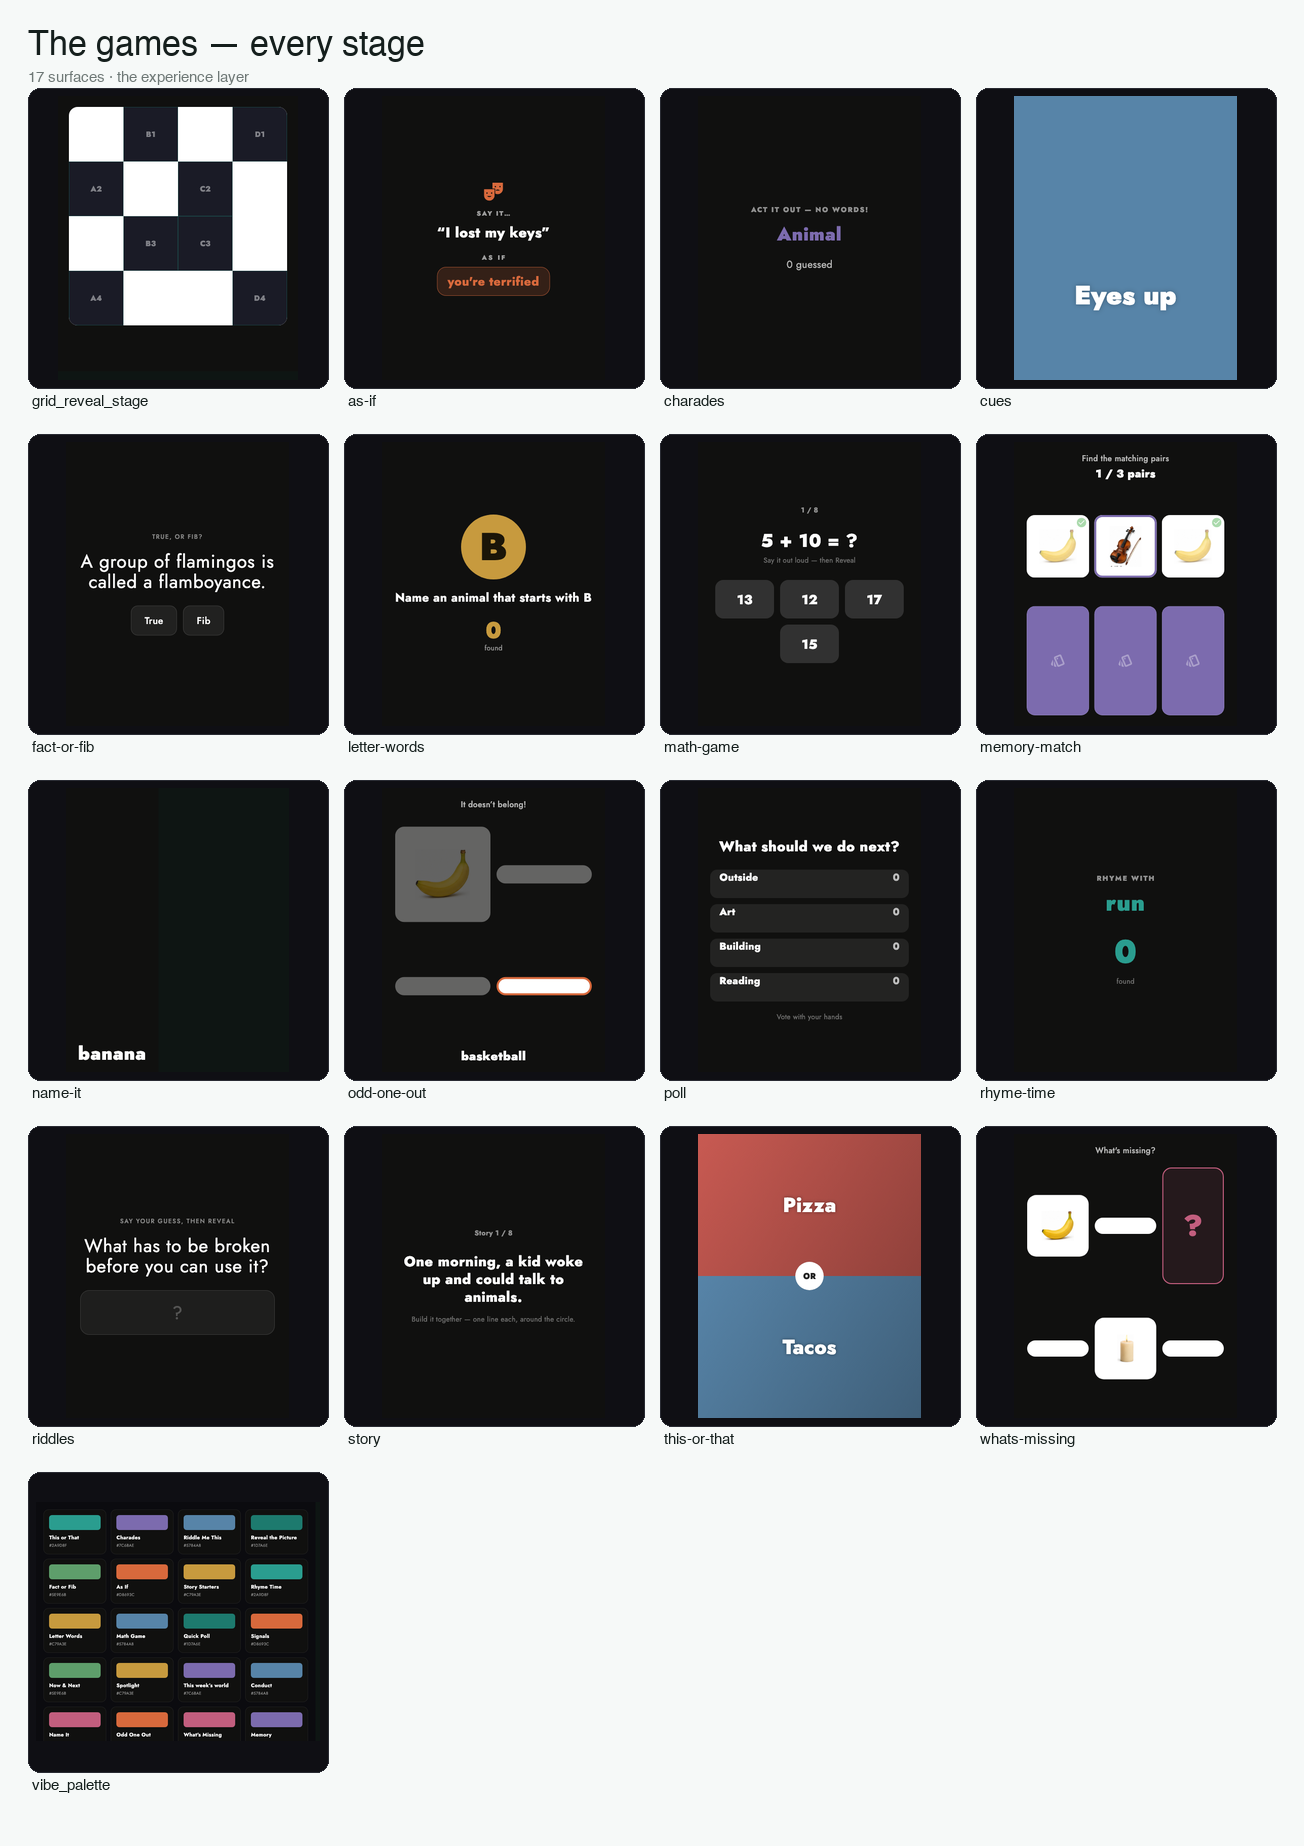
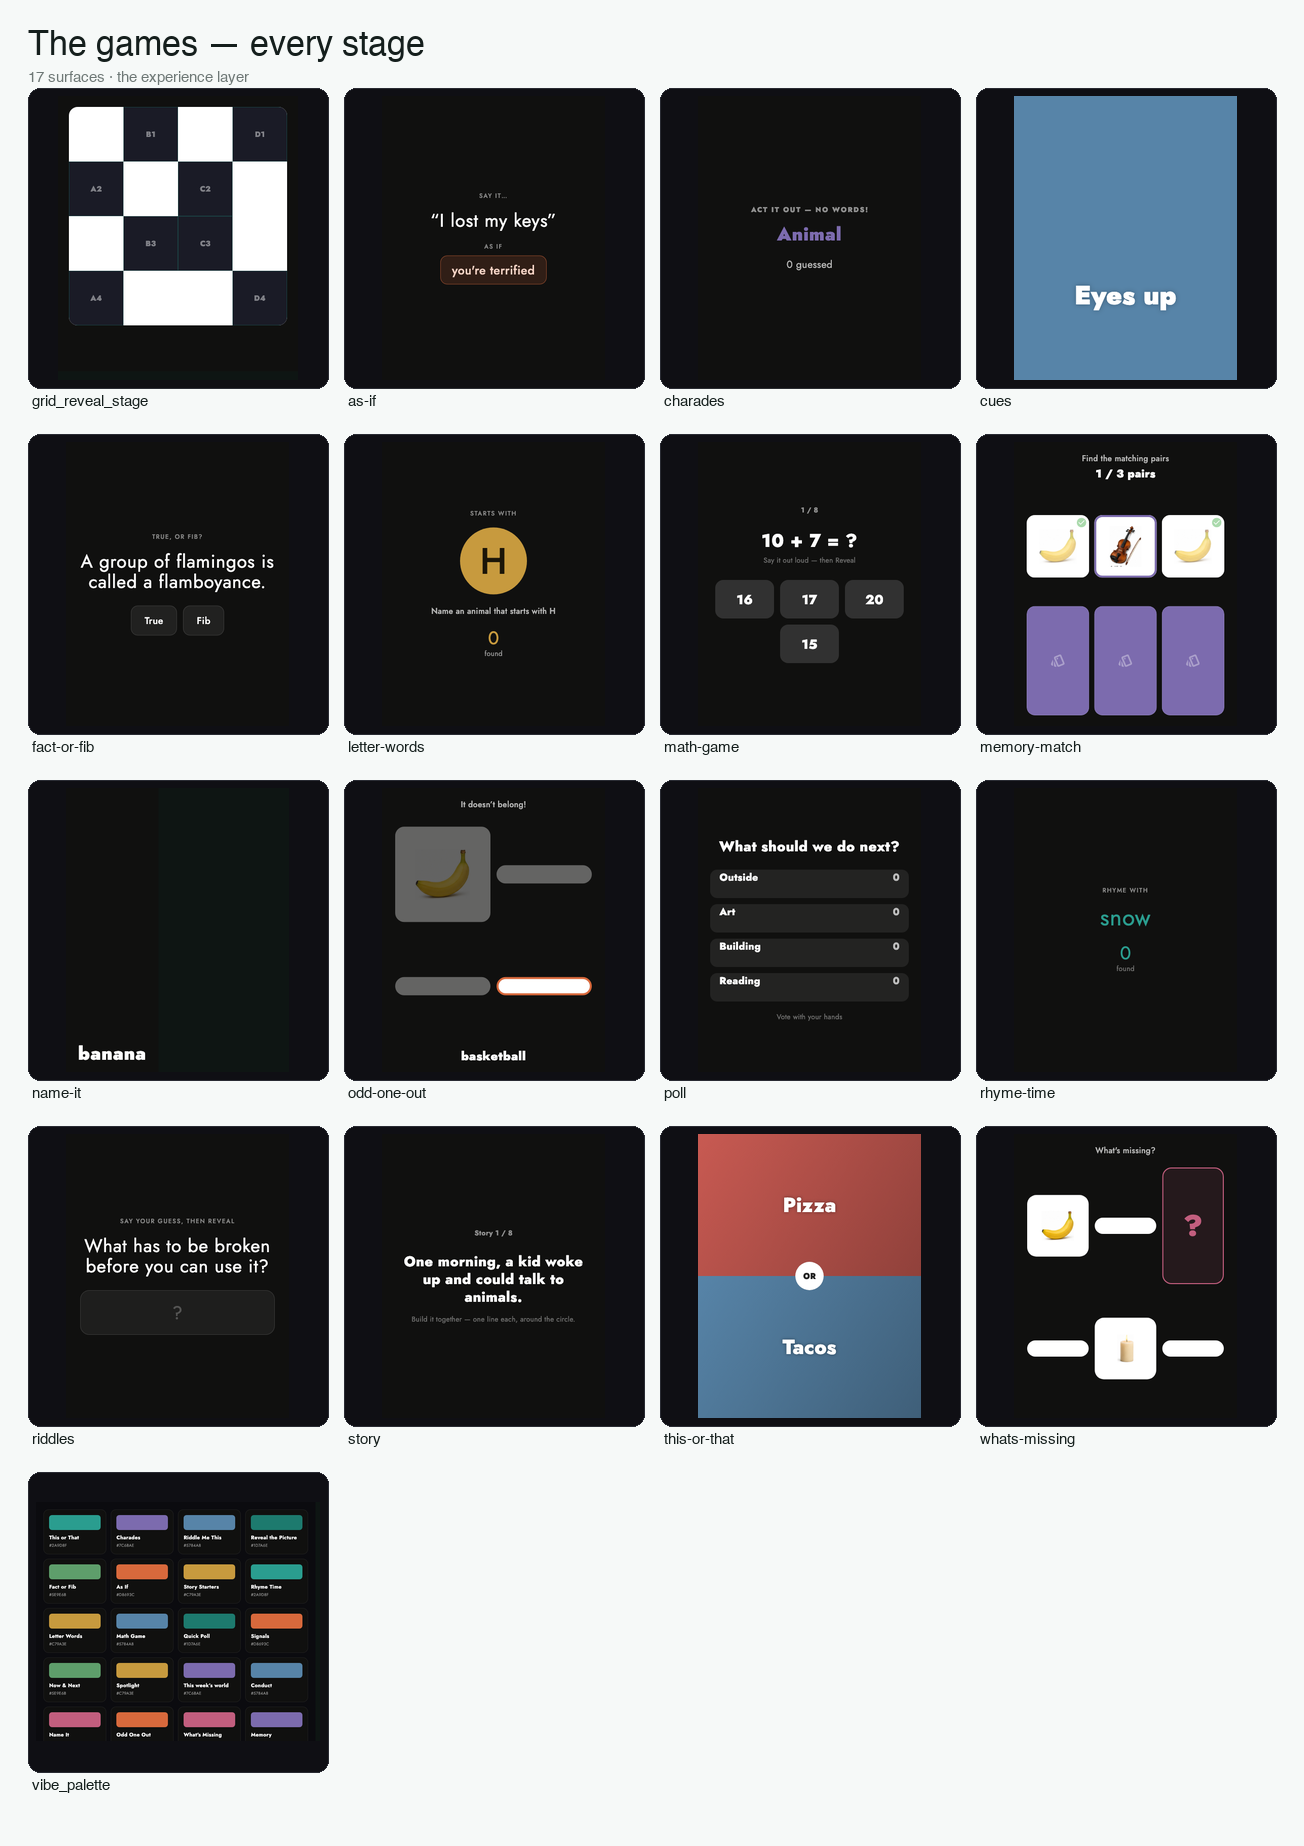
feat(games): Wave 2 rollout — as-if, rhyme, letter-words onto the frame
The prompt-game batch (after fact-or-fib + riddles). All three onto
GameStage.frame: tracked eyebrow, serif hero, weights → w400/w500, accent text
via AppColors.readableOnDark/onAccent instead of raw white/black. The five
prompt games now share one calm voice — visibly cohesive on the games sheet.

Remaining: charades, cues, math, poll, this-or-that (custom layouts + shared
option pills) + the card-game titles.

Verify: flutter analyze clean; RUN_GOLDENS renders 17 scenes green; eyeballed
the contact sheet — the five converged stages are cohesive.

diff --git a/lib/features/games/games/as_if_game.dart b/lib/features/games/games/as_if_game.dart
@@ -1,5 +1,7 @@
+import 'package:differentworld/app/design_tokens.dart';
 import 'package:differentworld/features/activity_runtime/content_bank.dart';
 import 'package:differentworld/features/games/game.dart';
+import 'package:differentworld/features/games/game_stage.dart';
 import 'package:differentworld/features/games/games/tally_controls.dart';
 import 'package:flutter/material.dart';
 
@@ -106,73 +108,40 @@ class AsIfGame extends GameDefinition<AsIfState> {
   @override
   Widget buildStage(BuildContext context, AsIfState s) {
     final theme = Theme.of(context);
-    return Center(
-      child: ConstrainedBox(
-        constraints: const BoxConstraints(maxWidth: 600),
-        child: Padding(
-          padding: const EdgeInsets.all(24),
-          child: Column(
-            mainAxisSize: MainAxisSize.min,
-            children: [
-              Icon(Icons.theater_comedy, color: vibe.accent, size: 44),
-              const SizedBox(height: 12),
-              const Text(
-                'SAY IT…',
-                style: TextStyle(
-                  color: Colors.white60,
-                  fontWeight: FontWeight.w800,
-                  letterSpacing: 2,
-                  fontSize: 13,
-                ),
+    return GameStage.frame(
+      context,
+      eyebrow: 'Say it…',
+      hero: GameStage.hero(context, '“${s.line}”'),
+      body: Column(
+        mainAxisSize: MainAxisSize.min,
+        children: [
+          const SizedBox(height: 24),
+          GameStage.eyebrow(context, 'As if'),
+          const SizedBox(height: 10),
+          Container(
+            padding: const EdgeInsets.symmetric(horizontal: 22, vertical: 12),
+            decoration: BoxDecoration(
+              color: vibe.accent.withValues(alpha: 0.16),
+              borderRadius: BorderRadius.circular(14),
+              border: Border.all(color: vibe.accent.withValues(alpha: 0.55)),
+            ),
+            child: Text(
+              s.asIf,
+              textAlign: TextAlign.center,
+              style: theme.textTheme.headlineSmall?.copyWith(
+                color: AppColors.readableOnDark(vibe.accent),
+                fontWeight: FontWeight.w500,
               ),
-              const SizedBox(height: 12),
-              Text(
-                '“${s.line}”',
-                textAlign: TextAlign.center,
-                style: theme.textTheme.headlineMedium?.copyWith(
-                  color: Colors.white,
-                  fontWeight: FontWeight.w800,
-                  height: 1.1,
-                ),
-              ),
-              const SizedBox(height: 24),
-              const Text(
-                'AS IF',
-                style: TextStyle(
-                  color: Colors.white60,
-                  fontWeight: FontWeight.w800,
-                  letterSpacing: 3,
-                  fontSize: 13,
-                ),
-              ),
-              const SizedBox(height: 8),
-              Container(
-                padding:
-                    const EdgeInsets.symmetric(horizontal: 20, vertical: 12),
-                decoration: BoxDecoration(
-                  color: vibe.accent.withValues(alpha: 0.18),
-                  borderRadius: BorderRadius.circular(18),
-                  border: Border.all(color: vibe.accent.withValues(alpha: 0.6)),
-                ),
-                child: Text(
-                  s.asIf,
-                  textAlign: TextAlign.center,
-                  style: theme.textTheme.headlineSmall?.copyWith(
-                    color: vibe.accent,
-                    fontWeight: FontWeight.w800,
-                  ),
-                ),
-              ),
-              if (s.performed > 0) ...[
-                const SizedBox(height: 24),
-                Text(
-                  'Acted out ${s.performed}',
-                  style: const TextStyle(color: Colors.white38),
-                ),
-              ],
-            ],
+            ),
           ),
-        ),
+          if (s.performed > 0) ...[
+            const SizedBox(height: 24),
+            Text(
+              'Acted out ${s.performed}',
+              style: const TextStyle(color: Colors.white38),
+            ),
+          ],
+        ],
       ),
     );
   }

diff --git a/lib/features/games/games/letter_words_game.dart b/lib/features/games/games/letter_words_game.dart
@@ -1,7 +1,9 @@
 import 'dart:math';
 
+import 'package:differentworld/app/design_tokens.dart';
 import 'package:differentworld/features/activity_runtime/content_bank.dart';
 import 'package:differentworld/features/games/game.dart';
+import 'package:differentworld/features/games/game_stage.dart';
 import 'package:differentworld/features/games/games/tally_controls.dart';
 import 'package:flutter/material.dart';
 
@@ -121,46 +123,42 @@ class LetterWordsGame extends GameDefinition<LetterWordsState> {
   @override
   Widget buildStage(BuildContext context, LetterWordsState s) {
     final theme = Theme.of(context);
-    return Center(
-      child: Padding(
-        padding: const EdgeInsets.all(24),
-        child: Column(
-          mainAxisSize: MainAxisSize.min,
-          children: [
-            Container(
-              width: 128,
-              height: 128,
-              decoration: BoxDecoration(color: vibe.accent, shape: BoxShape.circle),
-              alignment: Alignment.center,
-              child: Text(
-                s.letter,
-                style: const TextStyle(
-                  color: Colors.black87,
-                  fontSize: 76,
-                  fontWeight: FontWeight.w900,
-                ),
-              ),
-            ),
-            const SizedBox(height: 20),
-            Text(
-              'Name ${s.category} that starts with ${s.letter}',
-              textAlign: TextAlign.center,
-              style: theme.textTheme.headlineSmall?.copyWith(
-                color: Colors.white,
-                fontWeight: FontWeight.w700,
-              ),
-            ),
-            const SizedBox(height: 24),
-            Text(
-              '${s.found}',
-              style: theme.textTheme.displayMedium?.copyWith(
-                color: vibe.accent,
-                fontWeight: FontWeight.w900,
-              ),
-            ),
-            const Text('found', style: TextStyle(color: Colors.white54)),
-          ],
+    return GameStage.frame(
+      context,
+      eyebrow: 'Starts with',
+      hero: Container(
+        width: 132,
+        height: 132,
+        decoration: BoxDecoration(color: vibe.accent, shape: BoxShape.circle),
+        alignment: Alignment.center,
+        child: Text(
+          s.letter,
+          style: TextStyle(
+            color: AppColors.onAccent(vibe.accent),
+            fontSize: 72,
+            fontWeight: FontWeight.w500,
+          ),
         ),
+      ),
+      body: Column(
+        mainAxisSize: MainAxisSize.min,
+        children: [
+          const SizedBox(height: 20),
+          Text(
+            'Name ${s.category} that starts with ${s.letter}',
+            textAlign: TextAlign.center,
+            style: theme.textTheme.titleMedium?.copyWith(color: Colors.white70),
+          ),
+          const SizedBox(height: 20),
+          Text(
+            '${s.found}',
+            style: theme.textTheme.displaySmall?.copyWith(
+              color: vibe.accent,
+              fontWeight: FontWeight.w400,
+            ),
+          ),
+          const Text('found', style: TextStyle(color: Colors.white54)),
+        ],
       ),
     );
   }

diff --git a/lib/features/games/games/rhyme_time_game.dart b/lib/features/games/games/rhyme_time_game.dart
@@ -1,5 +1,6 @@
 import 'package:differentworld/features/activity_runtime/content_bank.dart';
 import 'package:differentworld/features/games/game.dart';
+import 'package:differentworld/features/games/game_stage.dart';
 import 'package:differentworld/features/games/games/tally_controls.dart';
 import 'package:flutter/material.dart';
 
@@ -86,38 +87,32 @@ class RhymeTimeGame extends GameDefinition<RhymeState> {
   @override
   Widget buildStage(BuildContext context, RhymeState s) {
     final theme = Theme.of(context);
-    return Center(
-      child: Column(
-        mainAxisSize: MainAxisSize.min,
-        children: [
-          const Text(
-            'RHYME WITH',
-            style: TextStyle(
-              color: Colors.white54,
-              fontWeight: FontWeight.w800,
-              letterSpacing: 2,
+    return GameStage.frame(
+      context,
+      eyebrow: 'Rhyme with',
+      hero: Text(
+        s.word,
+        textAlign: TextAlign.center,
+        style: theme.textTheme.displayMedium?.copyWith(
+          color: vibe.accent,
+          fontWeight: FontWeight.w400,
+        ),
+      ),
+      body: Padding(
+        padding: const EdgeInsets.only(top: 24),
+        child: Column(
+          mainAxisSize: MainAxisSize.min,
+          children: [
+            Text(
+              '${s.found}',
+              style: theme.textTheme.displaySmall?.copyWith(
+                color: vibe.accent,
+                fontWeight: FontWeight.w400,
+              ),
             ),
-          ),
-          const SizedBox(height: 12),
-          Text(
-            s.word,
-            textAlign: TextAlign.center,
-            style: theme.textTheme.displayMedium?.copyWith(
-              color: vibe.accent,
-              fontWeight: FontWeight.w900,
-            ),
-          ),
-          const SizedBox(height: 24),
-          Text(
-            '${s.found}',
-            style: TextStyle(
-              color: vibe.accent,
-              fontSize: 64,
-              fontWeight: FontWeight.w900,
-            ),
-          ),
-          const Text('found', style: TextStyle(color: Colors.white38)),
-        ],
+            const Text('found', style: TextStyle(color: Colors.white38)),
+          ],
+        ),
       ),
     );
   }
